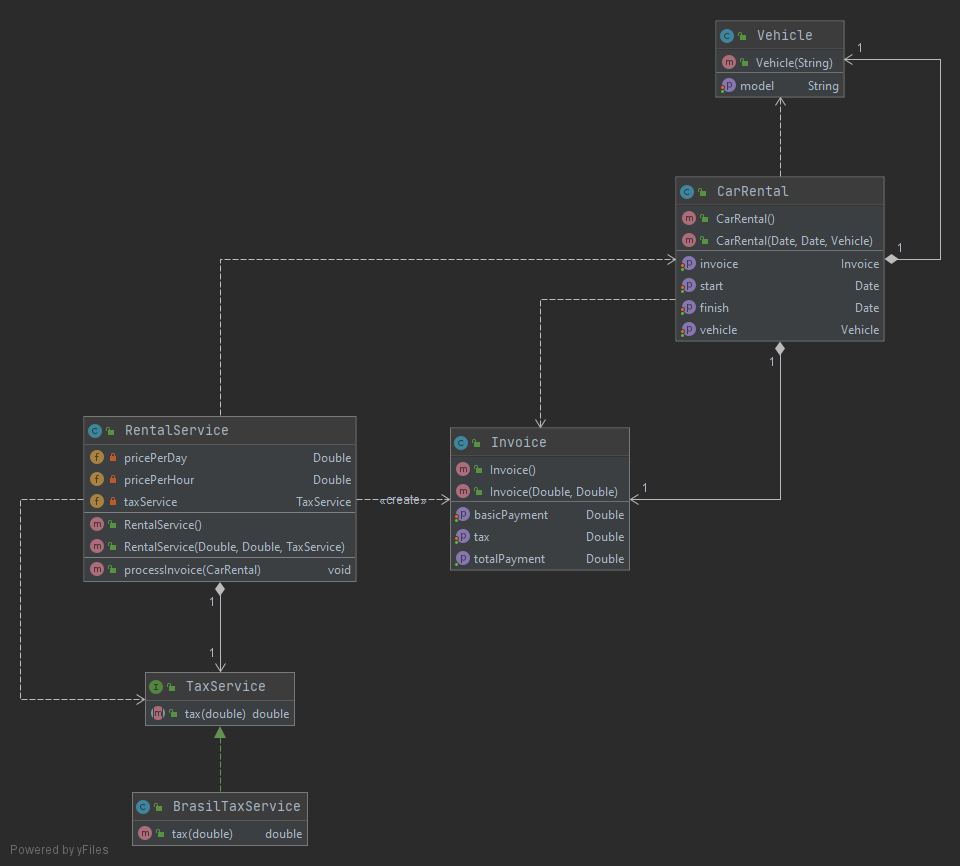
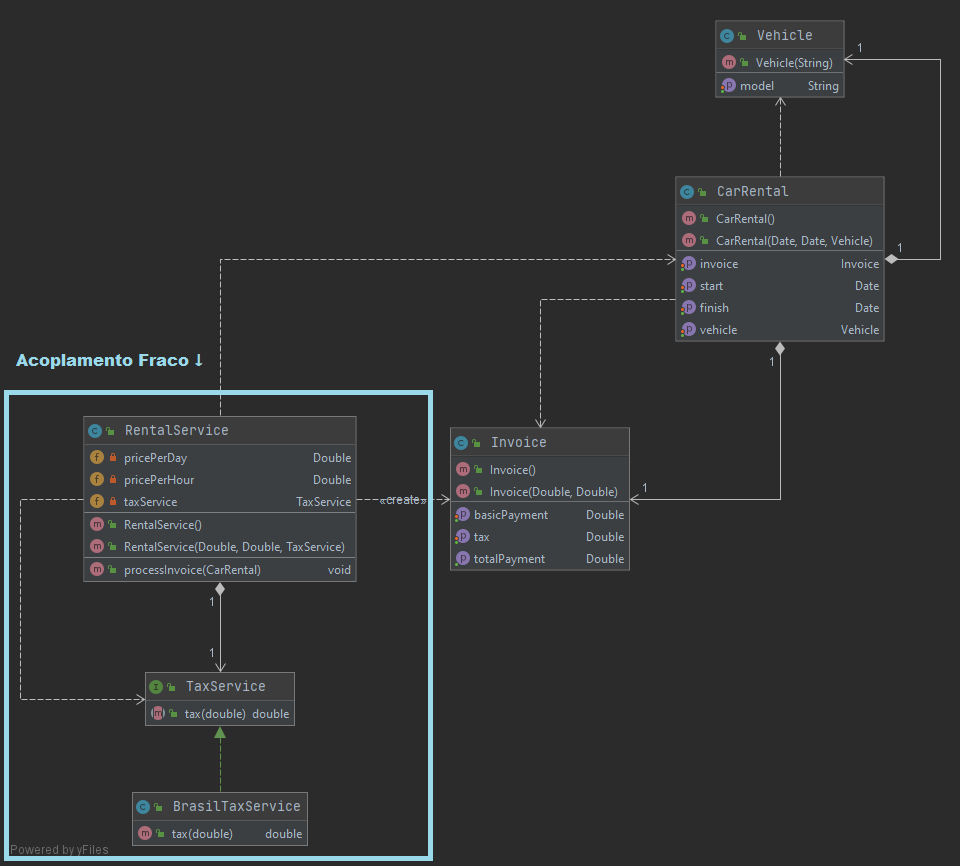
Inversão de controle e Injeção de dependência

Changed region(s): [[0.0, 0.4053, 0.4688, 0.9977]]

diff --git a/README.md b/README.md
@@ -11,7 +11,7 @@
 
 ## Project: Chess Game System
 
-<a href="https://github.com/gleideveloper/JavaCourse/tree/master/project-chess-game" title="Project: Chess Game System">Link Project: Chess Game System</a>
+<a href="https://github.com/gleideveloper/project-chess-java" title="Project: Chess Game System">Link Project: Chess Game System</a>
 
 ## Interfaces
 <b>Conceitos:</b>
@@ -37,7 +37,7 @@ interface Shape {
 
 Nesse exemplo abaixo existem um alto acoplamento entre esse dois serviços, não sendo uma boa prática, sem o uso de interface.
 ![Alt text](interfaces/src/SolucaoSemInterfaces.png?raw=true "Forte Acoplamento")
-Se a própria classe RentalService for responsável por instanciar suas dependências, é gerado um forte acoplamento com dois pontos de alteração, um na classe RentalService e outro no programa principal.
+* A classe RentalService é responsável por instanciar suas dependências, causando um forte acoplamento com dois pontos de alteração, um na classe RentalService e outro no programa principal.
 
 ```java
 class RentalService {
@@ -54,7 +54,7 @@ class RentalService {
 * Se a classe concreta mudar, <b>a classe RentalService não muda</b>, e só é alterado em um único lugar.
 
 Nesse exemplo abaixo temos um <b>fraco acoplamento</b> entre esse dois serviços, com o uso da interface TaxService.
-![Alt text](interfaces/src/FracoAcoplamento.png?raw=true "Fraco Acoplamento")
+![Alt text](interfaces/src/SolucaoComInterfaces.png?raw=true "Fraco Acoplamento")
 
 ```java
 class RentalService {
@@ -71,12 +71,15 @@ class RentalService {
 
 ![Alt text](interfaces/src/InjeçãoDeDependência.png?raw=true "Injeção de Dependeência")
 
-Se a própria classe RentalService for responsável por instanciar suas dependências, é gerado um forte acoplamento com dois pontos de alteração, um na classe RentalService e outro no programa principal.
+Se a própria classe RentalService não deve ser responsável por instanciar suas dependências.
+
 <p><b>Inversão de controle</b></p>
-É um Padrão de desenvolvimento que consiste em retirar da classe a responsabilidade de instanciar suas dependências.
+
+É um padrão de desenvolvimento que consiste em <b>retirar da classe a responsabilidade de instanciar suas dependências.</b>
 
 <p><b>Injeção de dependência</b></p>
-É uma forma de realizar a inversão de controle: um componente externo instacia a dependência, que é então injetada no objeto "pai". Pode ser implementada de vários formas:
+
+É uma forma de <b>realizar a inversão de controle</b>: um componente externo instacia a dependência, que é então injetada no objeto "pai" através desse componente. Pode ser implementada de vários formas:
 * Construtor
 * Classe de instanciação (builder/factory)
 * Container / framework
